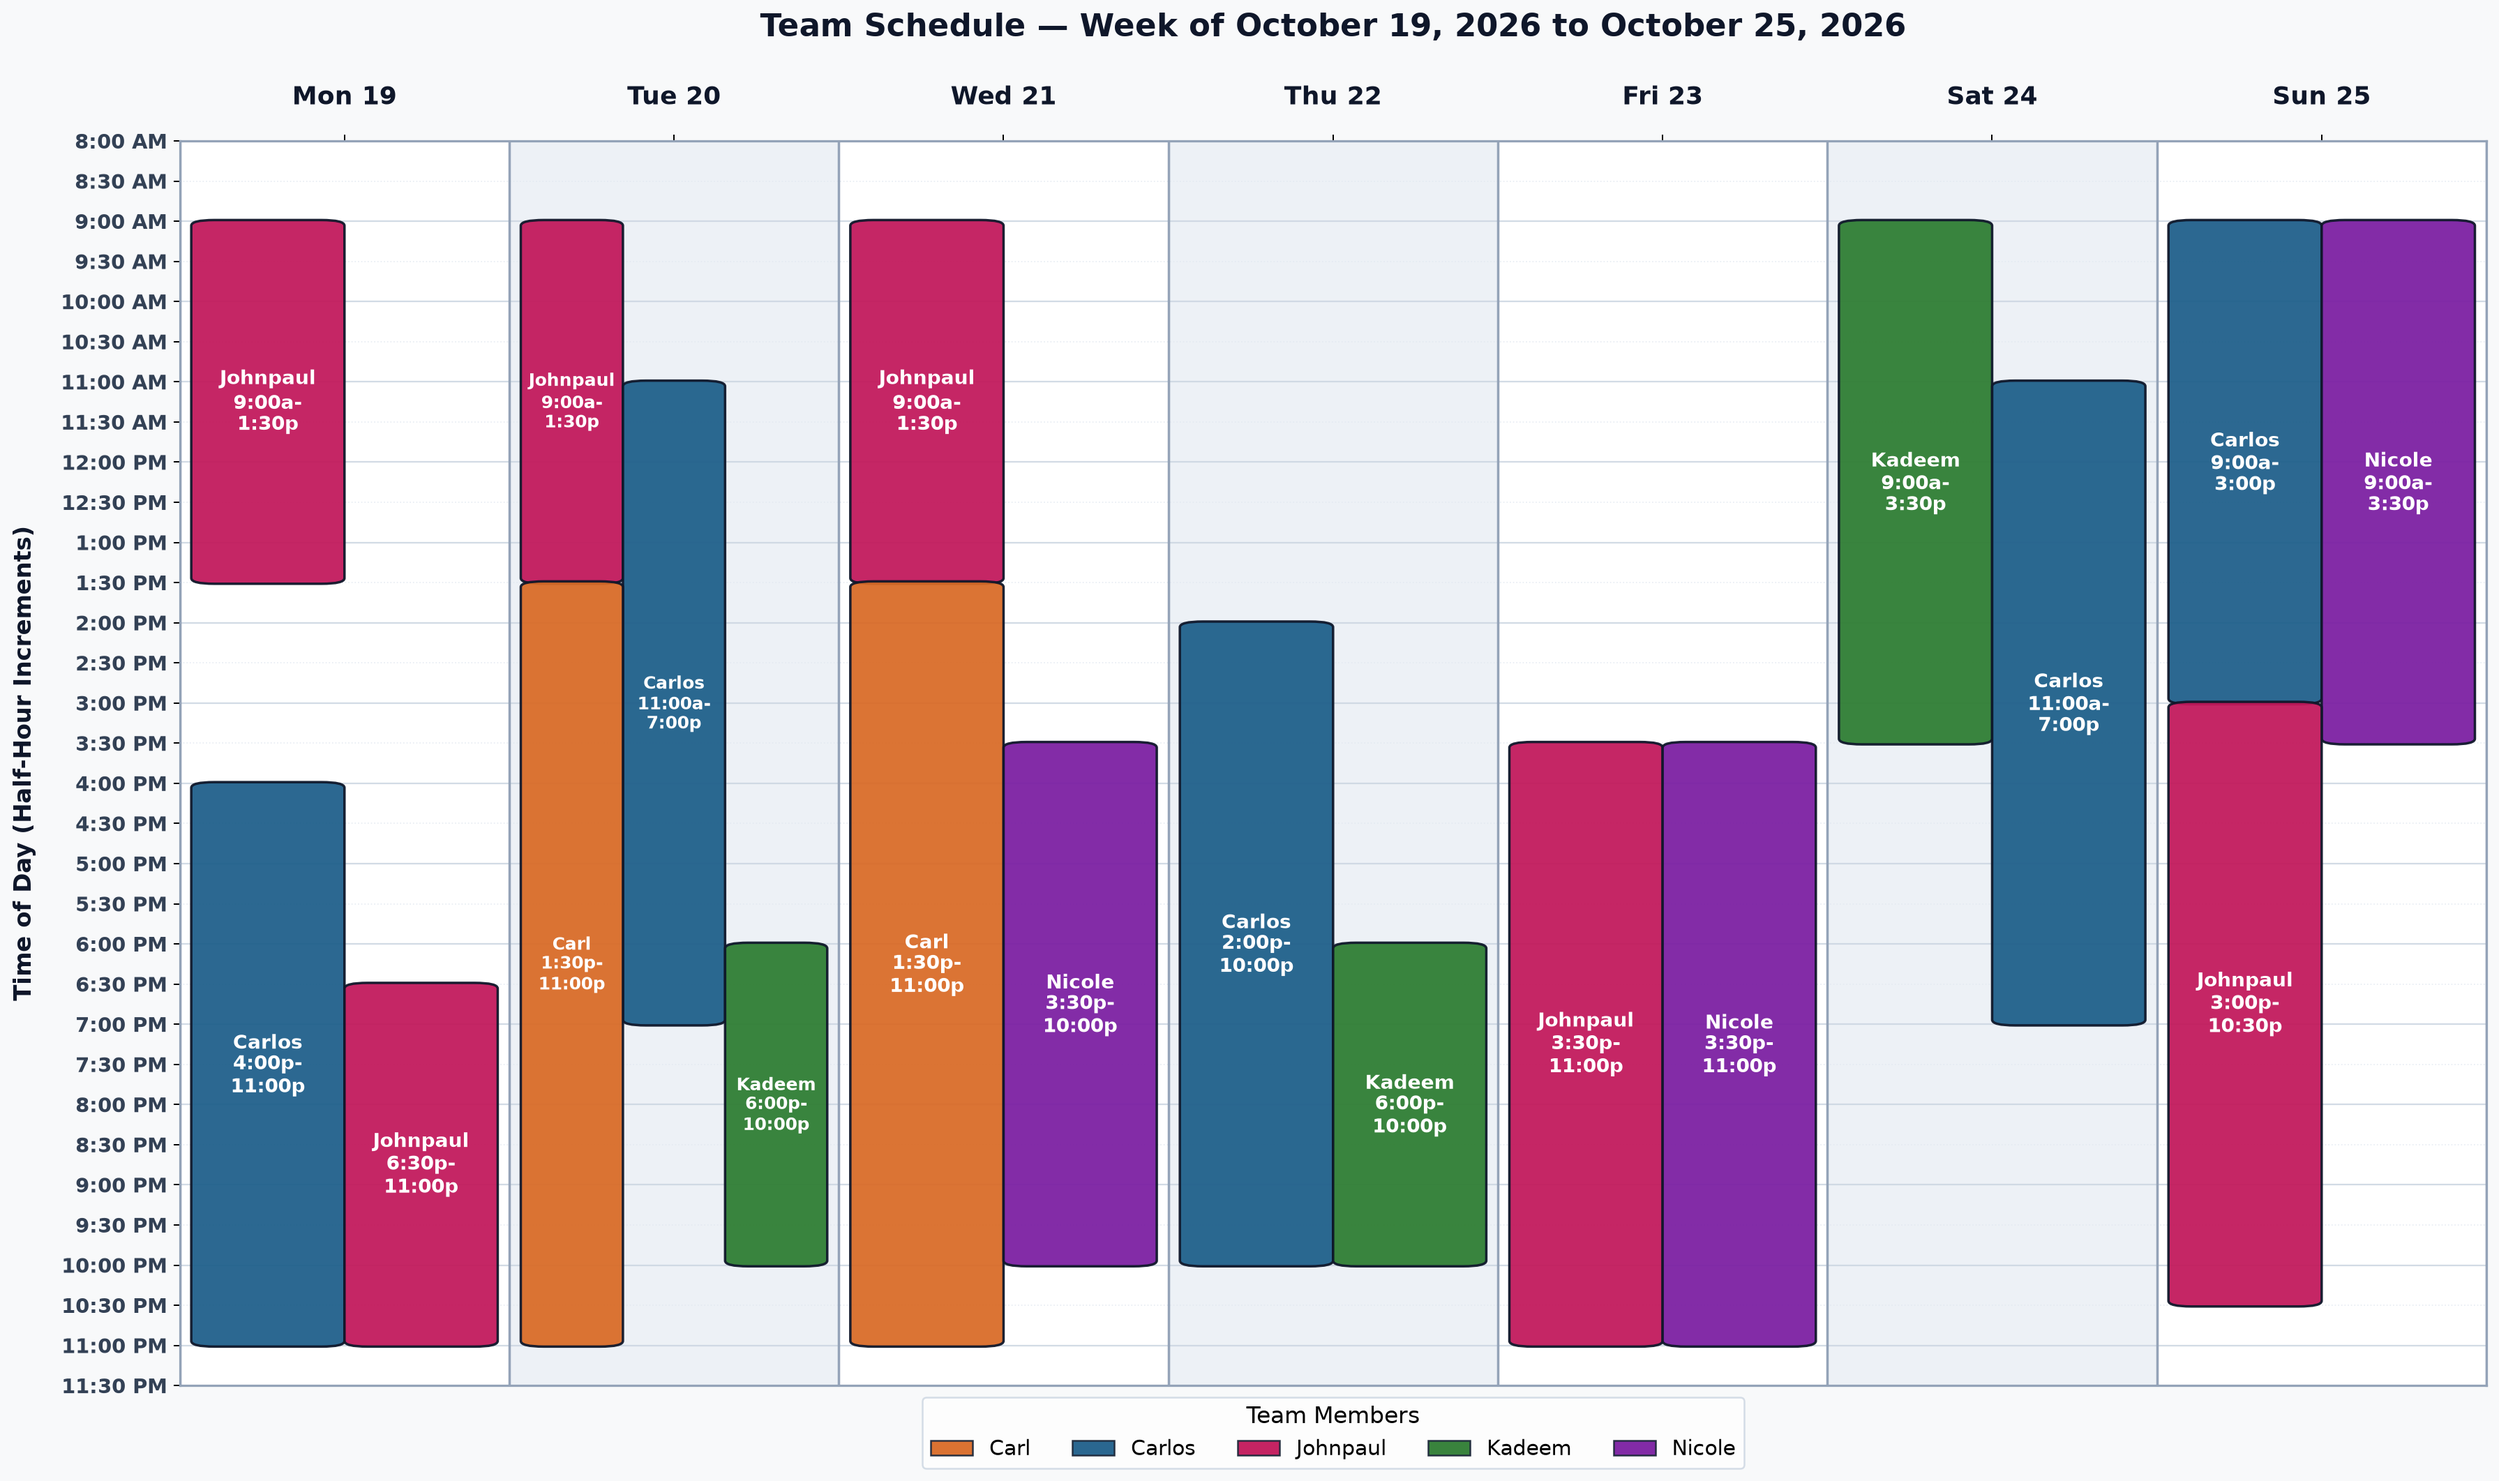
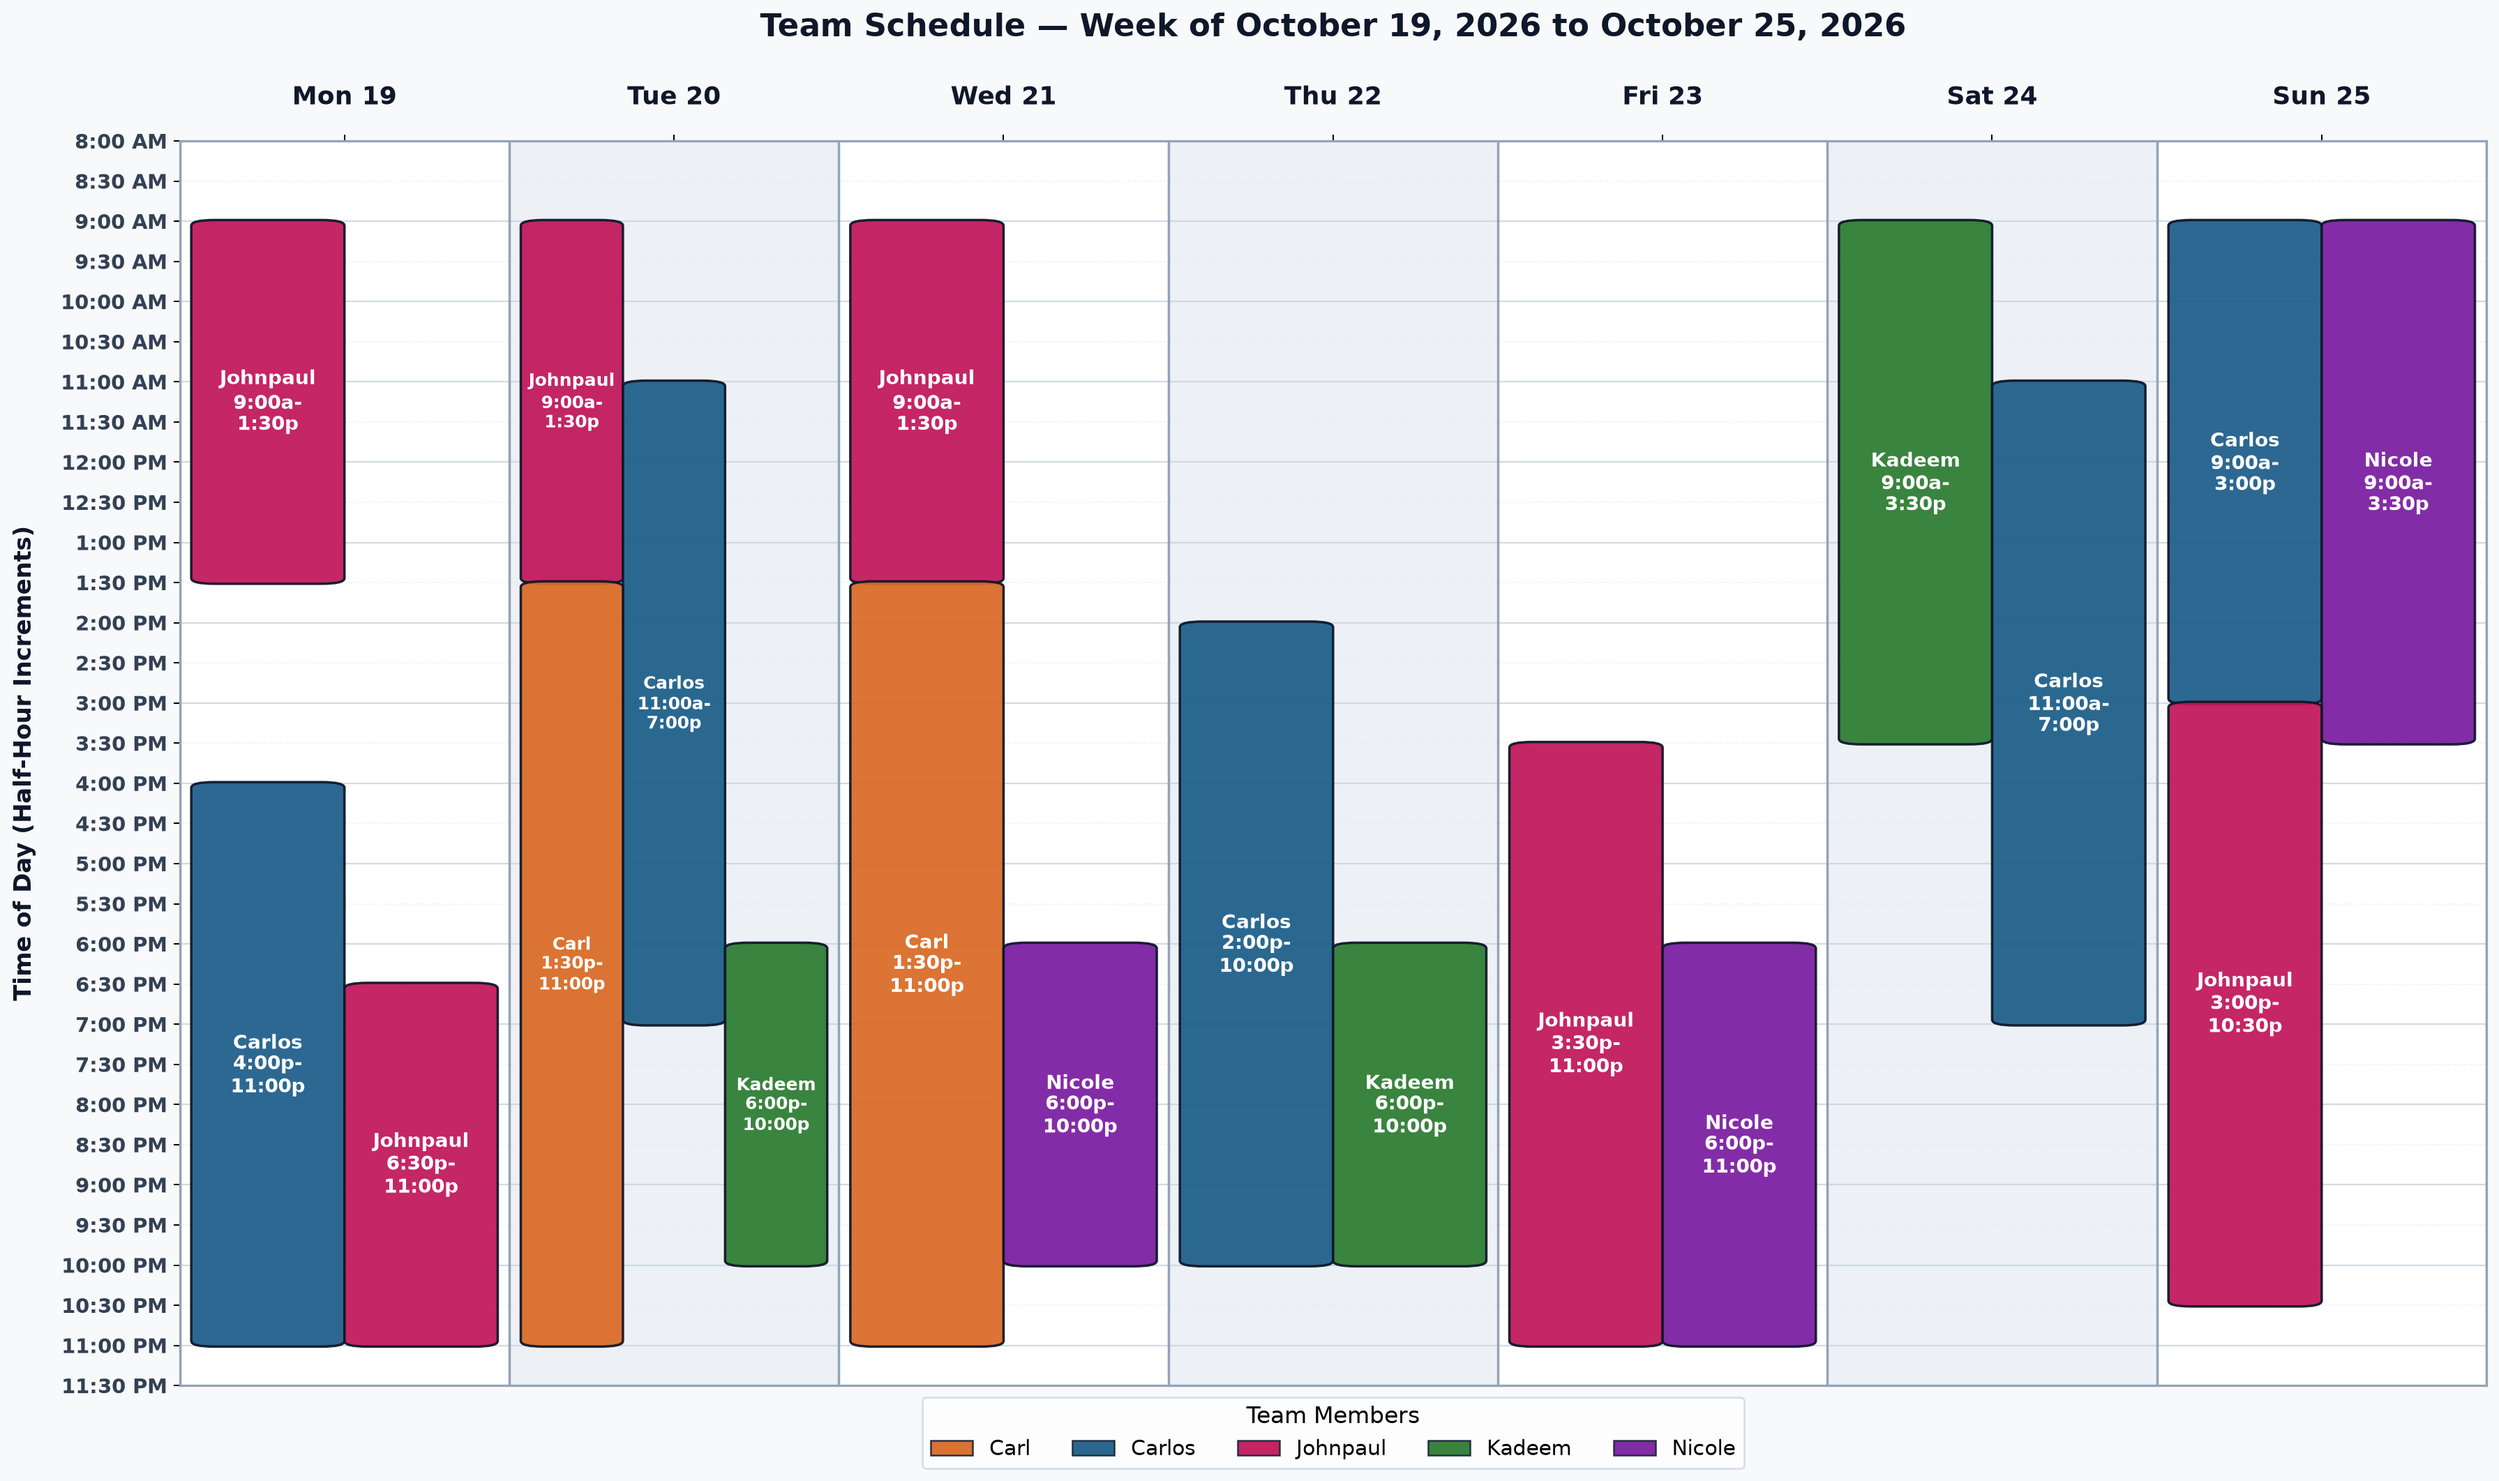
Update Nicole start time to 6:00 PM on Wed and Fri for both weeks

diff --git a/schedule.html b/schedule.html
@@ -572,7 +572,7 @@
         "Nicole": "#7B1FA2",
         "Johnpaul": "#C2185B"
       },
-      "total_hours": 124.0,
+      "total_hours": 119.0,
       "total_shifts": 19,
       "stats": {
         "Carlos": {
@@ -596,7 +596,7 @@
           "color": "#2E7D32"
         },
         "Nicole": {
-          "hours": 20.5,
+          "hours": 15.5,
           "shifts": 3,
           "color": "#7B1FA2"
         }
@@ -661,9 +661,9 @@
         {
           "name": "Nicole",
           "day": 2,
-          "start": 15.5,
+          "start": 18.0,
           "end": 22.0,
-          "label": "3:30 PM - 10:00 PM"
+          "label": "6:00 PM - 10:00 PM"
         },
         {
           "name": "Johnpaul",
@@ -689,9 +689,9 @@
         {
           "name": "Nicole",
           "day": 4,
-          "start": 15.5,
+          "start": 18.0,
           "end": 23.0,
-          "label": "3:30 PM - 11:00 PM"
+          "label": "6:00 PM - 11:00 PM"
         },
         {
           "name": "Johnpaul",
@@ -770,7 +770,7 @@
         "Jordan": "#D97706",
         "Chris": "#059669"
       },
-      "total_hours": 124.0,
+      "total_hours": 119.0,
       "total_shifts": 19,
       "stats": {
         "Carlos": {
@@ -789,7 +789,7 @@
           "color": "#2E7D32"
         },
         "Nicole": {
-          "hours": 20.5,
+          "hours": 15.5,
           "shifts": 3,
           "color": "#7B1FA2"
         },
@@ -873,16 +873,16 @@
         {
           "name": "Nicole",
           "day": 2,
-          "start": 15.5,
+          "start": 18.0,
           "end": 22.0,
-          "label": "3:30 PM - 10:00 PM"
+          "label": "6:00 PM - 10:00 PM"
         },
         {
           "name": "Nicole",
           "day": 4,
-          "start": 15.5,
+          "start": 18.0,
           "end": 23.0,
-          "label": "3:30 PM - 11:00 PM"
+          "label": "6:00 PM - 11:00 PM"
         },
         {
           "name": "Nicole",
